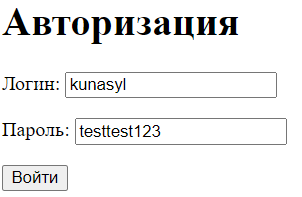
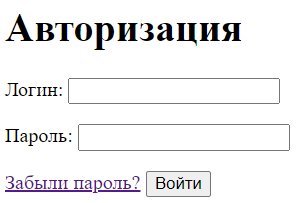
added comments

diff --git a/users/views.py b/users/views.py
@@ -23,6 +23,7 @@ def index(request):
 def index_id(request, id):
     return HttpResponse(id)
 
+# Активация аккаунта
 def activate(request, uidb64, token):
     User = get_user_model()
     try:
@@ -32,7 +33,7 @@ def activate(request, uidb64, token):
         user = None
 
     if user is not None and account_activation_token.check_token(user, token):
-        user.is_active = True
+        user.is_active = True   # активировать пользователя
         user.save()
 
         messages.success(request, "Почта успешно подтверждена")
@@ -50,13 +51,13 @@ def pageNotFound(request, exception):
 @user_not_authenticated
 def register(request):
     if request.method == "POST":
-        form = RegisterUserForm(request.POST)
+        form = RegisterUserForm(request.POST)   # форма регистрации
         if form.is_valid():
             user = form.save(commit=False)
             user.is_active=False
             user.save()
             user_email = form.cleaned_data.get('email')
-            email_sent = services.activateEmail(request, user, user_email)
+            email_sent = services.activateEmail(request, user, user_email)   # отправка почты
             if email_sent:
                 messages.success(request, f'На {user_email} была выслана ссылка на активацию \
                                             Пожалуйста активируйте аккаунт.')
@@ -82,10 +83,10 @@ def register(request):
 @user_not_authenticated
 def password_reset_request(request):
     if request.method == 'POST':
-        form = PasswordResetForm(request.POST)
+        form = PasswordResetForm(request.POST)   # форма - забыл пароль - пользователь вводит почту
         if form.is_valid():
             user_email = form.cleaned_data['email']
-            email_sent = services.resetPassword(request, user_email)
+            email_sent = services.resetPassword(request, user_email)   # отправка почты
 
             if email_sent:
                 messages.success(request,
@@ -110,7 +111,7 @@ def password_reset_request(request):
 def password_change(request):
     user = request.user
     if request.method == 'POST':
-        form = SetPasswordForm(user, request.POST)
+        form = SetPasswordForm(user, request.POST)   # форма на смену пароля
         if form.is_valid():
             form.save()
             messages.success(request, "Пароль успешно изменен")
@@ -122,6 +123,7 @@ def password_change(request):
     form = SetPasswordForm(user)
     return render(request, 'users/password_reset_confirm.html', {'form': form})
 
+# Пользователь переходит по данной ссылке для смены пароля
 def passwordResetConfirm(request, uidb64, token):
     User = get_user_model()
     try:
@@ -132,11 +134,11 @@ def passwordResetConfirm(request, uidb64, token):
 
     if user is not None and account_activation_token.check_token(user, token):
         if request.method == 'POST':
-            form = SetPasswordForm(user, request.POST)
+            form = SetPasswordForm(user, request.POST)   # форма на смену пароля
             if form.is_valid():
                 form.save()
                 messages.success(request, "Пароль был успешно изменен.")
-                return redirect('home')
+                return redirect('login')
             else:
                 for error in list(form.errors.values()):
                     messages.error(request, error)
@@ -149,6 +151,7 @@ def passwordResetConfirm(request, uidb64, token):
     messages.error(request, 'Что-то пошло не так.')
     return redirect("home")
 
+# Вход
 class LoginUser(LoginView):
     form_class = LoginUserForm
     template_name = 'users/login.html'

diff --git a/users/urls.py b/users/urls.py
@@ -6,12 +6,12 @@ urlpatterns = [
     path('', index, name='home'),   # Главная страница
     path('<int:id>/', index_id),
     path('register/', register, name='register'),   # Registration
-    path('activate/<uidb64>/<token>', activate, name='activate'),
+    path('activate/<uidb64>/<token>', activate, name='activate'),   # Активация аккаунта по почте
     path('login/', LoginUser.as_view(), name='login'),   # Авторизация
-    path('reset/<uidb64>/<token>', passwordResetConfirm, name='password_reset_confirm'),
+    path('reset/<uidb64>/<token>', passwordResetConfirm, name='password_reset_confirm'),   # Смена пароля по ссылке
     path('logout/', custom_logout, name='logout'),
-    path("password_change", password_change, name="password_change"),
-    path("password_reset", password_reset_request, name="password_reset"),
+    path("password_change", password_change, name="password_change"),   # Смена пароля
+    path("password_reset", password_reset_request, name="password_reset"),   # Забыл пароль
 ]
 
 handler404 = pageNotFound

diff --git a/users/forms.py b/users/forms.py
@@ -23,18 +23,13 @@ class LoginUserForm(AuthenticationForm):
     username = forms.CharField(label='Логин', widget=forms.TextInput(attrs={'class': 'form-input'}))
     password = forms.CharField(label='Пароль', widget=forms.TextInput(attrs={'class': 'form-input'}))
 
+# Форма для смены пароля
 class SetPasswordForm(SetPasswordForm):
     class Meta:
         model = User
         fields = ('new_password1', 'new_password2')
 
-    def save(self, commit=True):
-        password = self.cleaned_data["new_password1"]
-        self.user.set_password(password)
-        if commit:
-            self.user.save()
-        return self.user
-
+# Форма - запрос для смены пароля - ввод почты
 class PasswordResetForm(PasswordResetForm):
     def __init__(self, *args, **kwargs):
         super(PasswordResetForm, self).__init__(*args, **kwargs)

diff --git a/users/services.py b/users/services.py
@@ -10,6 +10,7 @@ from users.tokens import account_activation_token
 
 
 class RegistrationServices():
+    # Отправка ссылки для активации аккаунта на почту
     def activateEmail(self, request, user, to_email):
         mail_subject = "Активация аккаунта"
         message = render_to_string("users/email_templates/activate_account.html", {
@@ -22,6 +23,7 @@ class RegistrationServices():
         email = EmailMessage(mail_subject, message, to=[to_email])
         return email.send()
 
+    # Отправка ссылки на смену пароля на почту
     def resetPassword(self, request, user_email):
         associated_user = get_user_model().objects.filter(Q(email=user_email)).first()
         if associated_user:

diff --git a/README.md b/README.md
@@ -3,16 +3,23 @@
 
 ### Структура:
 Весь функционал прописан в папке `users/`
-- views.py - вьюшки страниц регистрации, авторизации и главной страницы.
-- forms.py - формы регистрации и авторизации
-- urls.py - описана маршрутизация
+- `views.py` - вьюшки страниц регистрации, авторизации и главной страницы.
+- `forms.py` - формы регистрации и авторизации
+- `urls.py` - описана маршрутизация
+- `forms.py` - формы для регистрации, авторизации и смены пароля
+- `tokens.py` - генератор токена
+- `decorators.py` - содержит декоратор `user_not_authenticated`
+- `services.py` - содержит функции отправки сообщения на почту пользователя
 - в папке `templates/` находятся html файлы
+- в `static/users/` находится css файл
 
 ### Установка
 Проект написан на django framework. В `requirements.txt` указаны нужные пакеты.
 
 ### Использование
-Главная страница находится по адресу `/users`. После регистрации (`users/register`) пользователь переходит на страницу авторизации (`users/login`), а после попадает на главную страницу.
+Главная страница находится по адресу `/users`.
+После регистрации (`users/register`) пользователь переходит на страницу авторизации (`users/login`),
+а после попадает на главную страницу.
 
 - регистрация с валидацией пароля
 
@@ -21,3 +28,18 @@
 - авторизация
 
 <img src="readme_screenshots/login.png" width="180" height="120">
+
+В случае когда пользователь забыл пароль, он может нажать на "Забыли пароль?".
+После пользователь переходит на страницу `users/password_reset`.
+
+<img src="readme_screenshots/password_reset_request.png" width="420" height="120">
+
+На введенную почту приходит ссылка на смену пароля:
+
+<img src="readme_screenshots/reset_email.png" width="360" height="180">
+
+Перейдя по ссылке, пользователь вводит новый пароль.
+
+<img src="readme_screenshots/password_reset.png" width="320" height="180">
+
+После он переходит на страницу авторизации.
